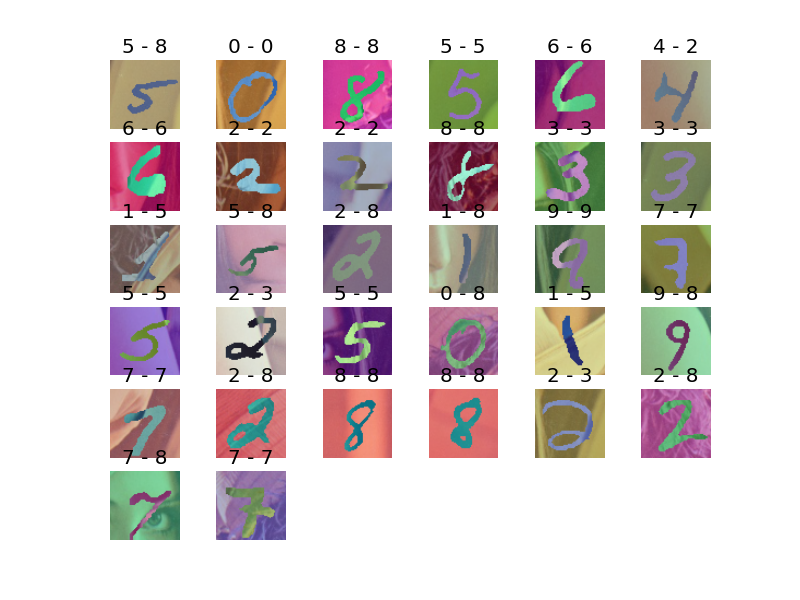
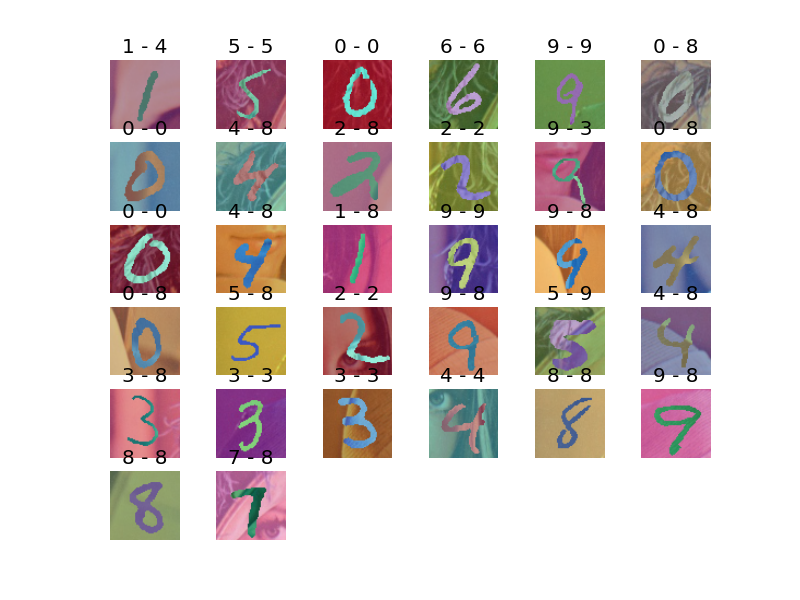
readme

diff --git a/README.md b/README.md
@@ -1,30 +1,34 @@
-### DCGAN MNIST 64x64
+### ADDA MNIST 64x64
 
-Implementation of a DCGAN system to generate realistic MNIST digits at 64x64 resolution in Tensorflow. After 40 epochs of training, you should get these results:
+Given the MNIST 64x64 handwritten recognition dataset, we define the following two sets as "source" and "target":
 
 <p align="center">
-<img src="/tensorboard/20170129183030_mnist64_jupyter/plots/epoch_0040_g.png" alt="Artificial MNIST images" height="200">
-
-<img src="/tensorboard/20170129183030_mnist64_jupyter/plots/loss.png" alt="Loss" height="200">
-
-<img src="/tensorboard/20170129183030_mnist64_jupyter/plots/discriminator_output.png" alt="Discriminator output" height="200">
+<img src="/resources/source_domain.png" alt="Source MNIST domain" height="400">
+<img src="/resources/target_domain.png" alt="Target MNIST domain" height="400">
 </p>
+
+The goal is to maximize the accuracy of a classifier on the "target" set. However, **labels are only available for the "source" set**. We formulate the task as a **domain adaptation problem in adversarial terms**. Two networks, the classifier and the domain discriminator, compete to optimize opposite objectives. 
+
+In particular, the discriminator predicts whether a sample image belongs to the "source" or the "target" domains, **accessing features from the input images through the classifier network only**. At the same time, the classifier has two simultaneous objectives: a) recognizing digits from the "source" domain in a supervised fashion, and b) **fooling the discriminator** by maximizing its classification error.
+
+The idea behind adversarial domain adaptation is that **the classifier will eventually learn to hide features that are useful to discriminate between domains**. By doing so, it becomes robust against domain differences and improves its classification accuracy in the "target" set.
+
+### Results
+
+
 
 ### Usage
 
-1. Launch ```jupyter notebook``` and browse to ```http://localhost:8888/```
-2. Open [DCGAN MNIST tutorial.ipynb](DCGAN MNIST tutorial.ipynb)
-3. Run all to start training
-4. Use Tensorboard to monitor the training: ```tensorboard --logdir YOUR_DIR``` and browse to ```http://localhost:6006/```
+- Simply execute ```python train.py```
 
 ### Requisites
 
-- [Anaconda Python 3.5](https://www.continuum.io/downloads)
-- [Tensorflow 0.12.0-rc1](https://www.tensorflow.org/)
-- GPU for fast training (although CPU-only is supported)
+- [Anaconda Python 2.5](https://www.continuum.io/downloads)
+- [Lasagne 0.2.dev1](http://lasagne.readthedocs.io/)
+- [Theano 0.9](http://deeplearning.net/software/theano/)
+- GPU for fast training
 
 ### References
 
-- [Generative Adversarial Networks](http://arxiv.org/abs/1406.2661)
-- [Unsupervised Representation Learning with Deep Convolutional Generative Adversarial Networks](http://arxiv.org/abs/1511.06434)
-- [Image Completion with Deep Learning in TensorFlow](http://bamos.github.io/2016/08/09/deep-completion/)
+- [Domain-Adversarial Training of Neural Networks](https://arxiv.org/abs/1505.07818)
+- [Adversarial Discriminative Domain Adaptation](https://arxiv.org/abs/1702.05464)
